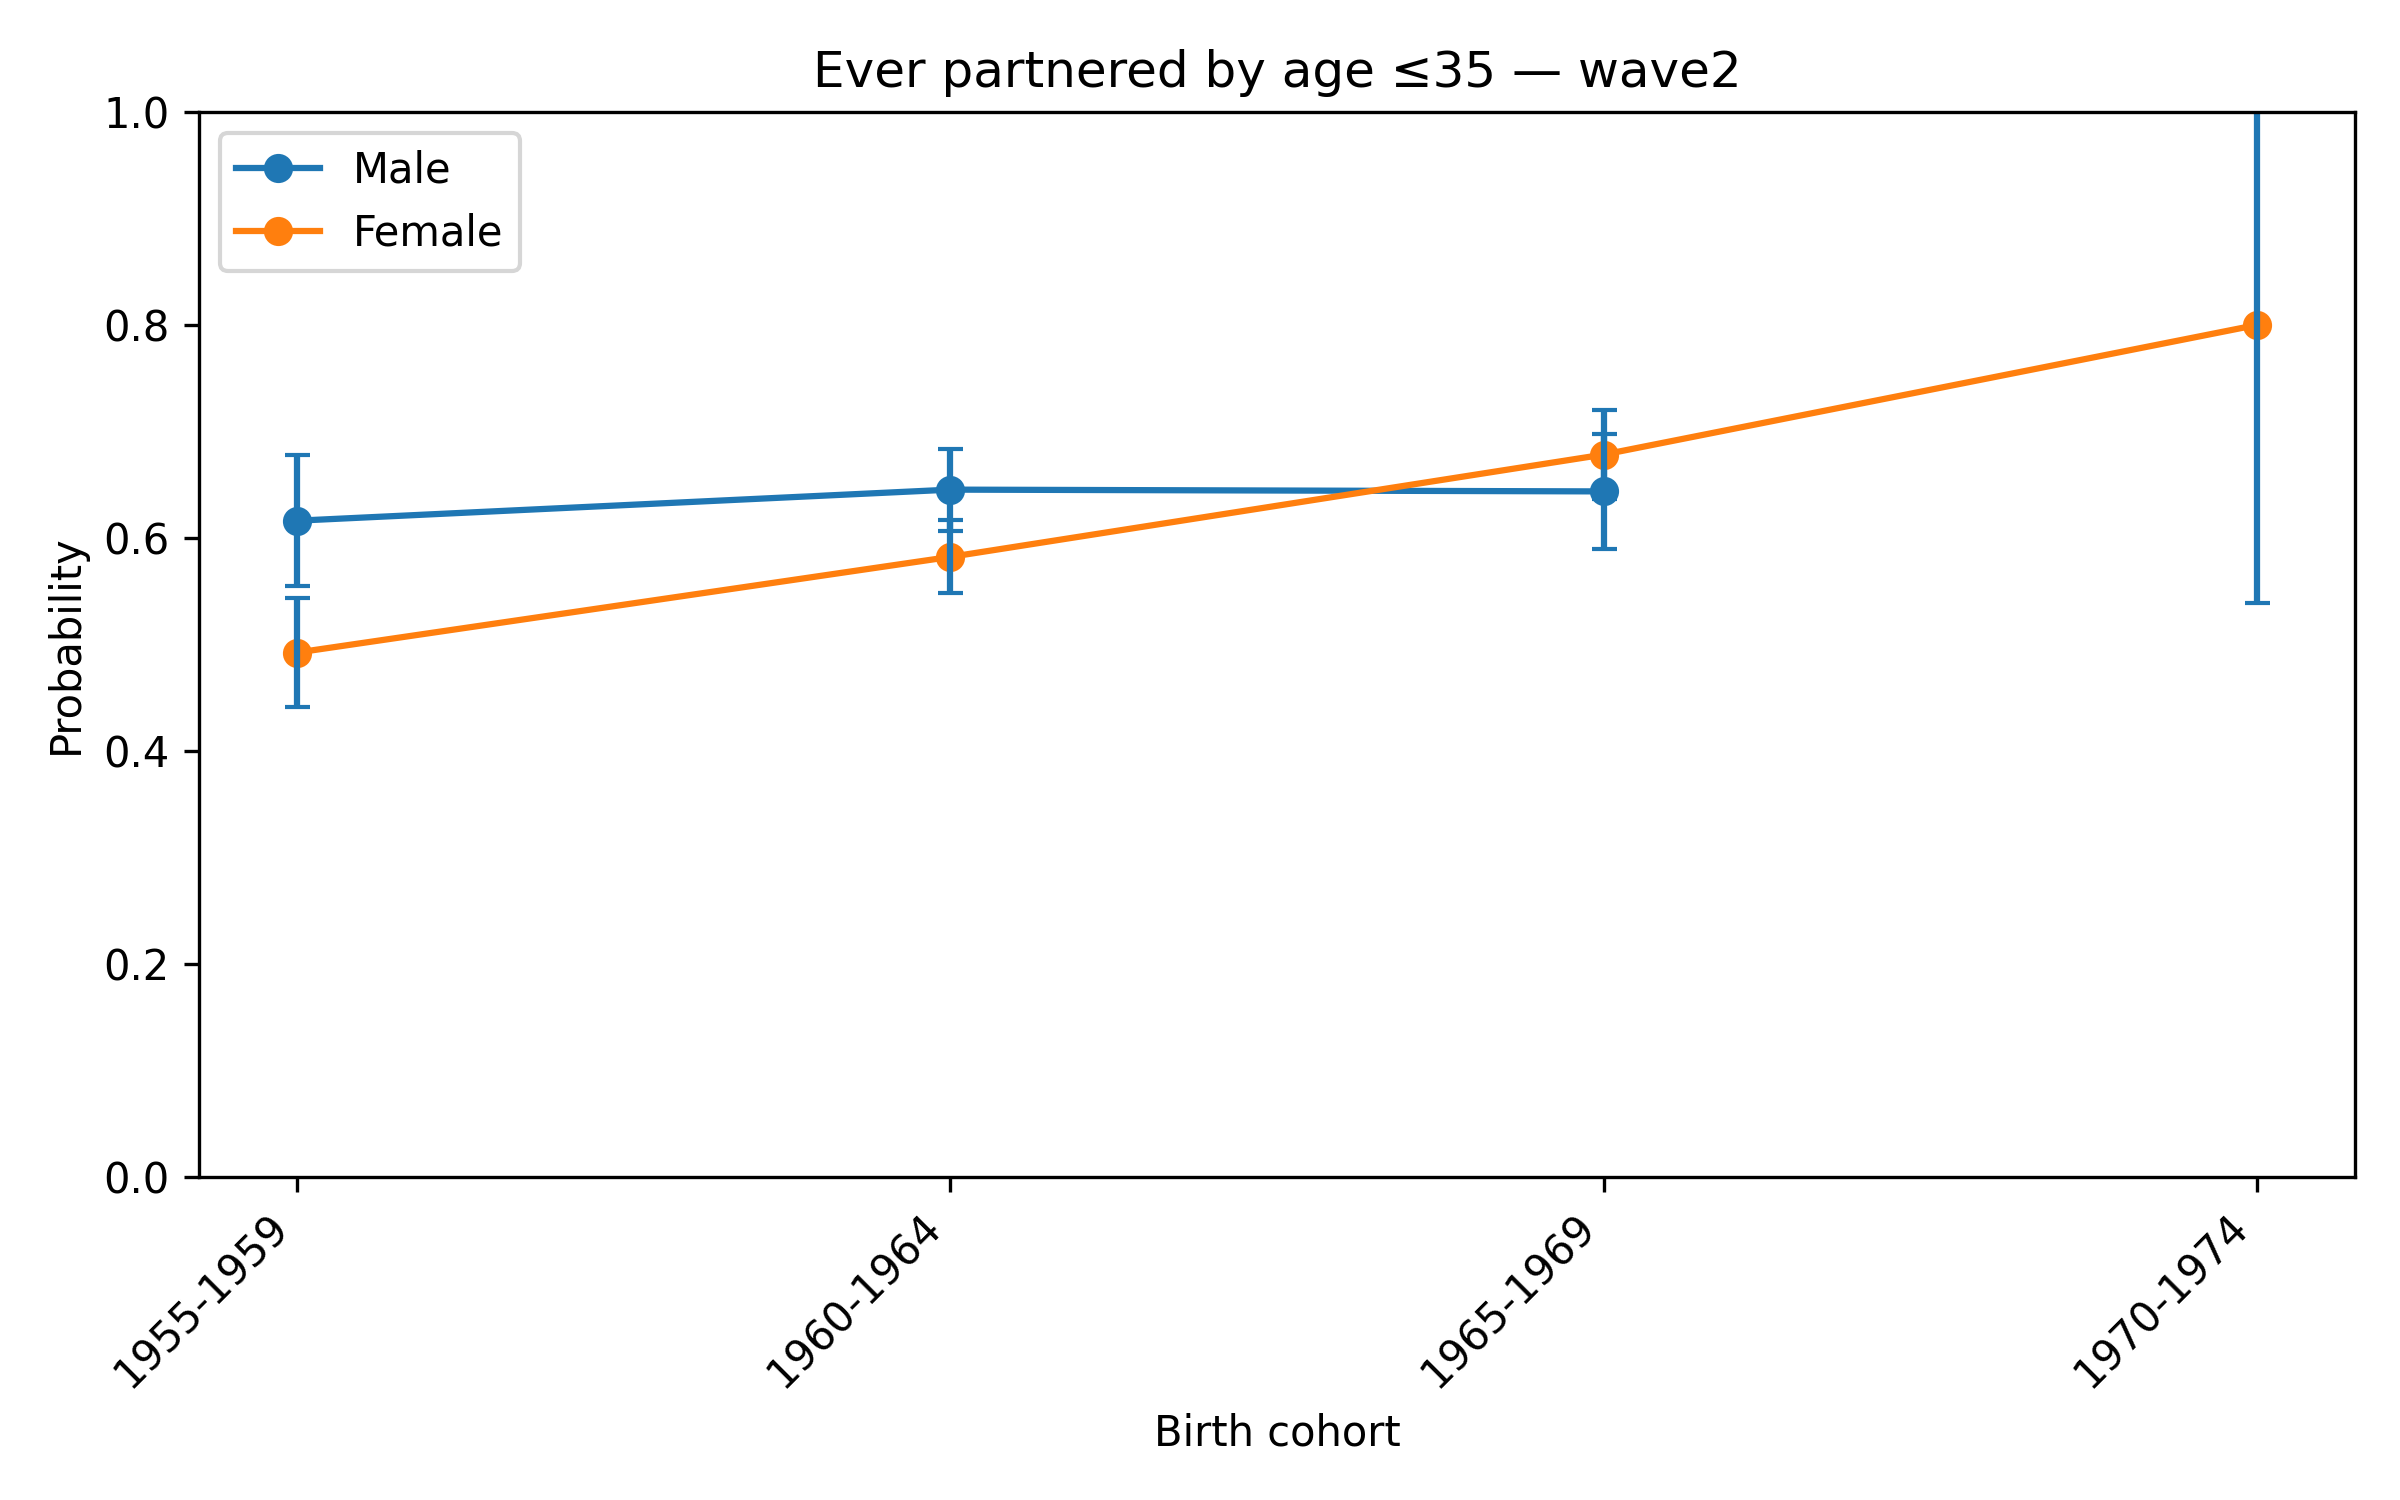
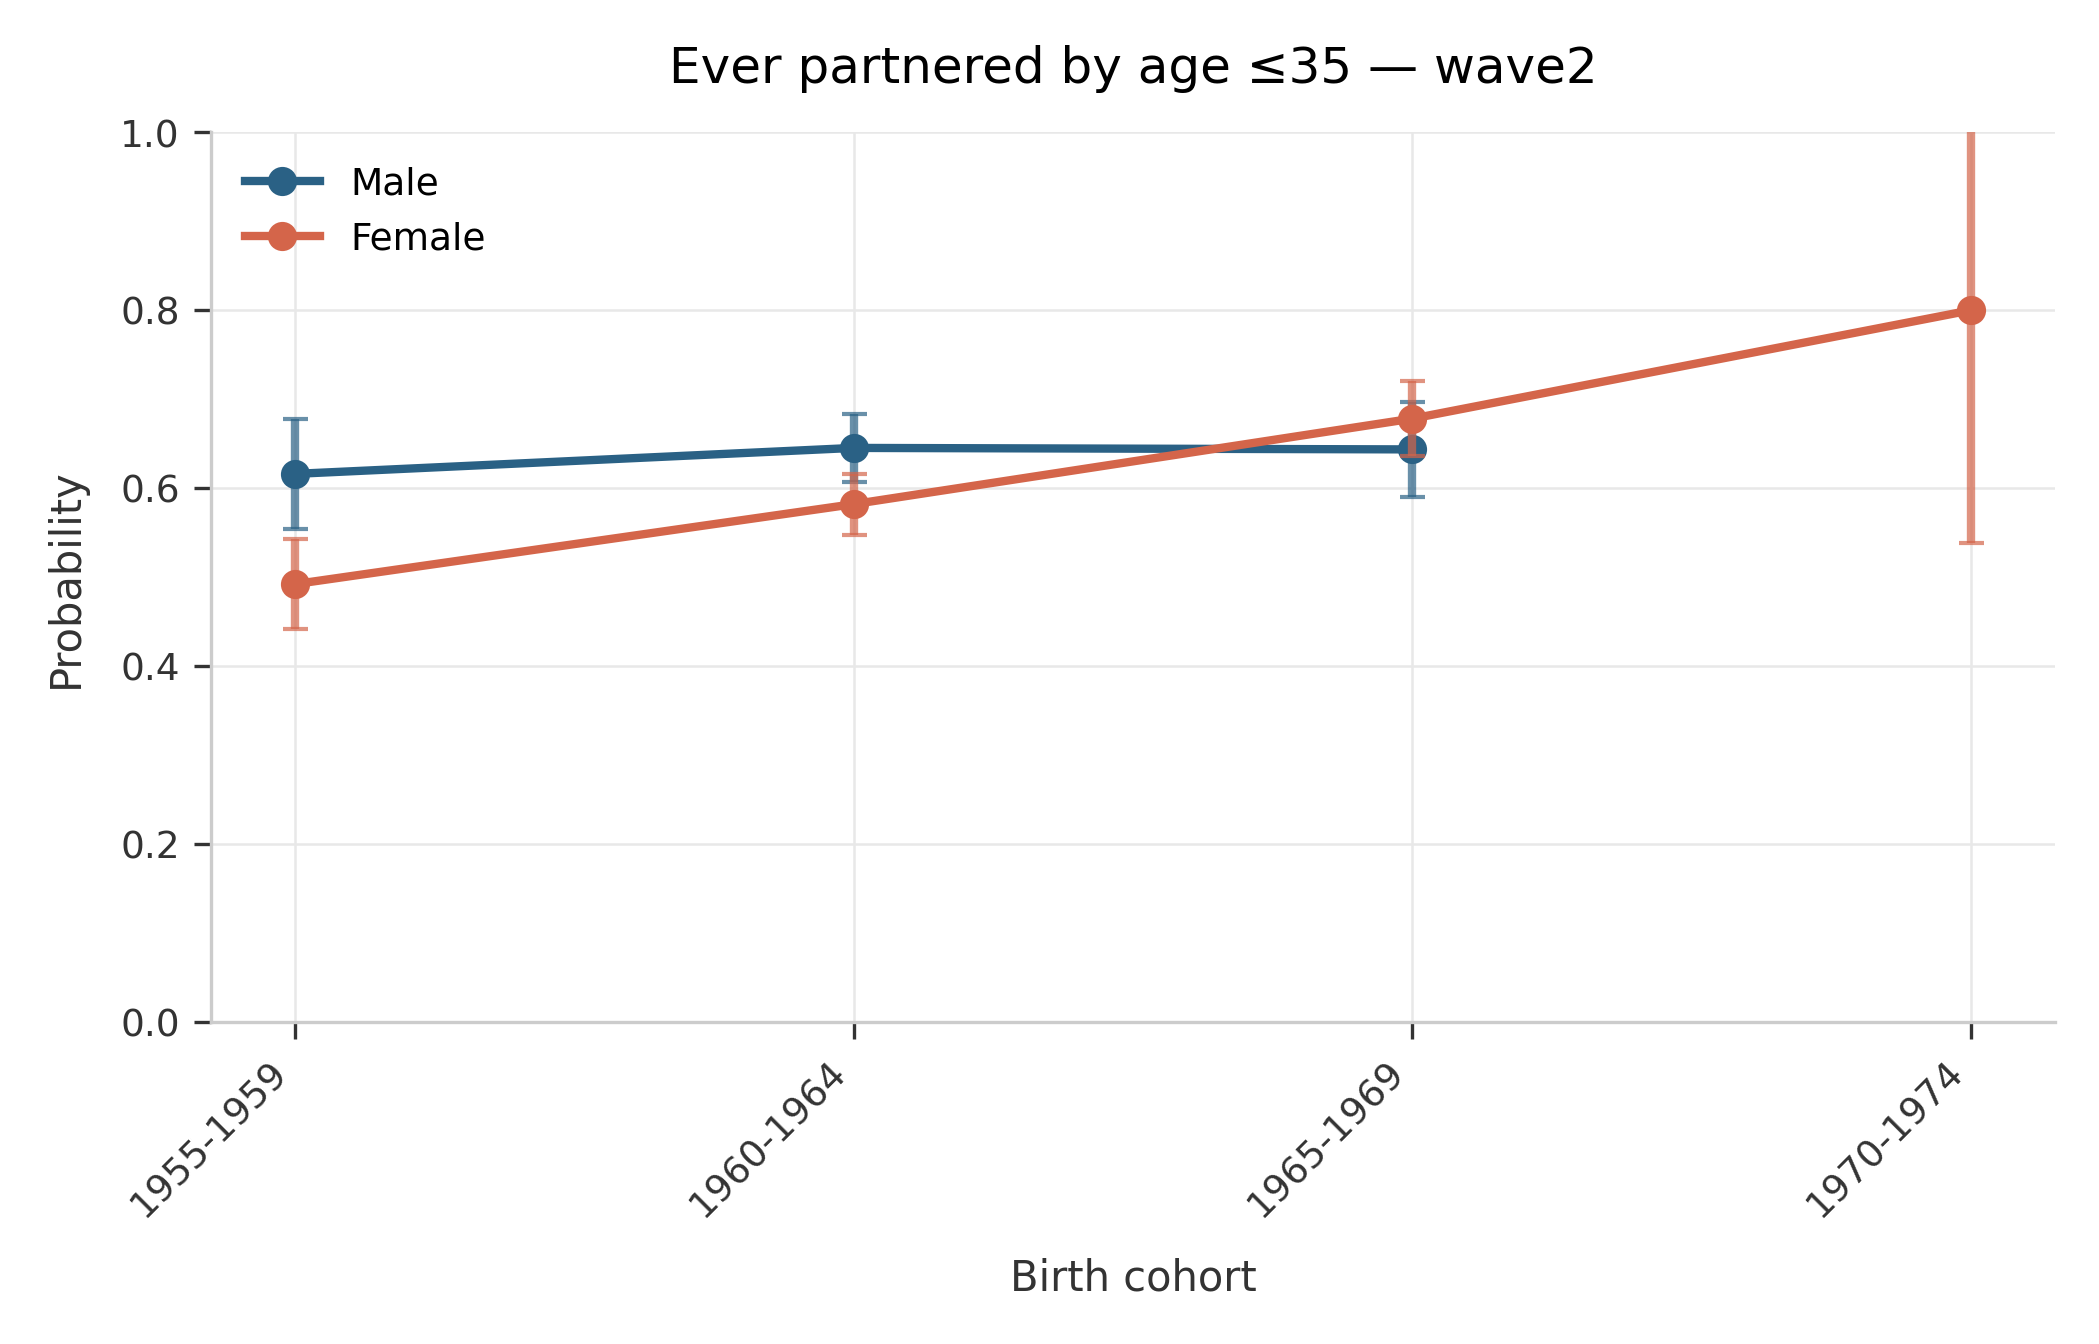
Update figures to FT-style with clean journal colors
- Add FT-inspired matplotlib configuration with muted, professional colors
- Use teal-blue (#2A6185) for male, coral (#D4654A) for female
- Remove top/right spines for cleaner look
- Add subtle gridlines and frameless legends
- Use sans-serif typography throughout
- Regenerate all 8 figures with new styling

diff --git a/scripts/nsfh_plots.py b/scripts/nsfh_plots.py
@@ -9,11 +9,93 @@
 #  - P(remarried 2+ | partnered)
 #
 # Designed for GitHub inclusion (no notebook state, deterministic outputs)
+# Style: FT-inspired with clean, journal-appropriate colors
 
 import pandas as pd
 import numpy as np
 import matplotlib.pyplot as plt
+import matplotlib as mpl
 from pathlib import Path
+
+# =============================================================================
+# FT-STYLE CONFIGURATION (Journal-appropriate colors)
+# =============================================================================
+
+# Color palette - muted, professional, colorblind-friendly
+COLORS = {
+    'male': '#2A6185',       # Deep teal-blue
+    'female': '#D4654A',     # Muted coral/terracotta
+    'single': '#3D5A6C',     # Slate blue-gray for single-series plots
+    'reference': '#9EAEB8',  # Light gray for reference lines
+    'grid': '#E8E8E8',       # Very light gray for gridlines
+    'text': '#333333',       # Dark gray for text (not pure black)
+    'spine': '#CCCCCC',      # Light gray for axis spines
+}
+
+# Figure styling
+FIG_WIDTH = 7
+FIG_HEIGHT = 4.5
+DPI = 300
+
+def setup_ft_style():
+    """Configure matplotlib for FT-inspired journal style."""
+    plt.rcParams.update({
+        # Figure
+        'figure.figsize': (FIG_WIDTH, FIG_HEIGHT),
+        'figure.facecolor': 'white',
+        'figure.dpi': 100,
+        'savefig.dpi': DPI,
+        'savefig.facecolor': 'white',
+        'savefig.bbox': 'tight',
+        'savefig.pad_inches': 0.15,
+
+        # Font - clean sans-serif
+        'font.family': 'sans-serif',
+        'font.sans-serif': ['Helvetica Neue', 'Helvetica', 'Arial', 'DejaVu Sans'],
+        'font.size': 10,
+
+        # Axes
+        'axes.facecolor': 'white',
+        'axes.edgecolor': COLORS['spine'],
+        'axes.linewidth': 0.8,
+        'axes.grid': True,
+        'axes.axisbelow': True,
+        'axes.titlesize': 12,
+        'axes.titleweight': 'medium',
+        'axes.titlepad': 12,
+        'axes.labelsize': 10,
+        'axes.labelcolor': COLORS['text'],
+        'axes.labelpad': 8,
+        'axes.spines.top': False,
+        'axes.spines.right': False,
+
+        # Grid
+        'grid.color': COLORS['grid'],
+        'grid.linewidth': 0.6,
+        'grid.alpha': 1.0,
+
+        # Ticks
+        'xtick.color': COLORS['text'],
+        'ytick.color': COLORS['text'],
+        'xtick.labelsize': 9,
+        'ytick.labelsize': 9,
+        'xtick.major.width': 0.8,
+        'ytick.major.width': 0.8,
+        'xtick.major.size': 4,
+        'ytick.major.size': 4,
+
+        # Legend
+        'legend.frameon': False,
+        'legend.fontsize': 9,
+        'legend.loc': 'best',
+
+        # Lines
+        'lines.linewidth': 2.0,
+        'lines.markersize': 6,
+    })
+
+# Apply style on import
+setup_ft_style()
 
 SCRIPT_DIR = Path(__file__).parent.resolve()
 PROJECT_ROOT = SCRIPT_DIR.parent
@@ -43,24 +125,28 @@ def plot_ever_partnered_by_wave():
         cohorts = sorted(d["cohort_primary"].dropna().unique(), key=cohort_sort_key)
         d["cohort_primary"] = pd.Categorical(d["cohort_primary"], categories=cohorts, ordered=True)
 
-        plt.figure(figsize=(8,5))
+        fig, ax = plt.subplots()
+        sex_colors = {'Male': COLORS['male'], 'Female': COLORS['female']}
+
         for sex in ["Male", "Female"]:
             s = d[d["sex_label"] == sex].sort_values("cohort_primary")
             p = s["p_ever_partnered"]
             n = s["N_age_le_35"]
             lo, hi = add_ci(p, n)
+            color = sex_colors[sex]
 
-            plt.plot(s["cohort_primary"], p, marker="o", label=sex)
-            plt.errorbar(s["cohort_primary"], p, yerr=[p-lo, hi-p], fmt="none", capsize=3)
+            ax.plot(s["cohort_primary"], p, marker="o", label=sex, color=color)
+            ax.errorbar(s["cohort_primary"], p, yerr=[p-lo, hi-p],
+                        fmt="none", capsize=3, color=color, alpha=0.7)
 
-        plt.title(f"Ever partnered by age ≤35 — {wave}")
-        plt.ylabel("Probability")
-        plt.xlabel("Birth cohort")
-        plt.ylim(0,1)
+        ax.set_title(f"Ever partnered by age ≤35 — {wave}")
+        ax.set_ylabel("Probability")
+        ax.set_xlabel("Birth cohort")
+        ax.set_ylim(0, 1)
         plt.xticks(rotation=45, ha="right")
-        plt.legend()
+        ax.legend()
         plt.tight_layout()
-        plt.savefig(OUTDIR / f"ever_partnered_{wave}.png", dpi=300)
+        plt.savefig(OUTDIR / f"ever_partnered_{wave}.png")
         plt.close()
 
 def plot_gap_by_wave():
@@ -88,54 +174,57 @@ def plot_gap_by_wave():
         d["cohort_primary"] = pd.Categorical(d["cohort_primary"], categories=cohorts, ordered=True)
         d = d.sort_values("cohort_primary")
 
-        plt.figure(figsize=(8,5))
-        plt.plot(d["cohort_primary"], d["gap"], marker="o")
-        plt.errorbar(d["cohort_primary"], d["gap"],
-                     yerr=[d["gap"]-d["lo"], d["hi"]-d["gap"]],
-                     fmt="none", capsize=3)
-        plt.axhline(0, linewidth=1)
-        plt.title(f"Female − Male gap in ever partnered — {wave}")
-        plt.ylabel("Gap")
-        plt.xlabel("Birth cohort")
+        fig, ax = plt.subplots()
+        ax.plot(d["cohort_primary"], d["gap"], marker="o", color=COLORS['single'])
+        ax.errorbar(d["cohort_primary"], d["gap"],
+                    yerr=[d["gap"]-d["lo"], d["hi"]-d["gap"]],
+                    fmt="none", capsize=3, color=COLORS['single'], alpha=0.7)
+        ax.axhline(0, linewidth=1, color=COLORS['reference'], linestyle='--')
+        ax.set_title(f"Female − Male gap in ever partnered — {wave}")
+        ax.set_ylabel("Gap")
+        ax.set_xlabel("Birth cohort")
         plt.xticks(rotation=45, ha="right")
         plt.tight_layout()
-        plt.savefig(OUTDIR / f"gap_ever_partnered_{wave}.png", dpi=300)
+        plt.savefig(OUTDIR / f"gap_ever_partnered_{wave}.png")
         plt.close()
 
 def plot_marriages_and_remarriage():
     df = pd.read_excel(TABLES_XLSX, sheet_name="stacked_primary_all_by_wave")
+    sex_colors = {'Male': COLORS['male'], 'Female': COLORS['female']}
 
     for wave, d in df.groupby("wave"):
         cohorts = sorted(d["cohort_primary"].dropna().unique(), key=cohort_sort_key)
         d["cohort_primary"] = pd.Categorical(d["cohort_primary"], categories=cohorts, ordered=True)
 
         # Mean marriages
-        plt.figure(figsize=(8,5))
-        for sex in ["Male","Female"]:
+        fig, ax = plt.subplots()
+        for sex in ["Male", "Female"]:
             s = d[d["sex_label"]==sex].sort_values("cohort_primary")
-            plt.plot(s["cohort_primary"], s["mean_marriages_if_partnered"], marker="o", label=sex)
-        plt.title(f"Mean marriages | ever partnered — {wave}")
-        plt.ylabel("Mean marriages")
-        plt.xlabel("Birth cohort")
+            ax.plot(s["cohort_primary"], s["mean_marriages_if_partnered"],
+                    marker="o", label=sex, color=sex_colors[sex])
+        ax.set_title(f"Mean marriages | ever partnered — {wave}")
+        ax.set_ylabel("Mean marriages")
+        ax.set_xlabel("Birth cohort")
         plt.xticks(rotation=45, ha="right")
-        plt.legend()
+        ax.legend()
         plt.tight_layout()
-        plt.savefig(OUTDIR / f"mean_marriages_{wave}.png", dpi=300)
+        plt.savefig(OUTDIR / f"mean_marriages_{wave}.png")
         plt.close()
 
         # Remarriage probability
-        plt.figure(figsize=(8,5))
-        for sex in ["Male","Female"]:
+        fig, ax = plt.subplots()
+        for sex in ["Male", "Female"]:
             s = d[d["sex_label"]==sex].sort_values("cohort_primary")
-            plt.plot(s["cohort_primary"], s["p_remarried_2plus_if_partnered"], marker="o", label=sex)
-        plt.title(f"P(remarried 2+ | partnered) — {wave}")
-        plt.ylabel("Probability")
-        plt.xlabel("Birth cohort")
-        plt.ylim(0,1)
+            ax.plot(s["cohort_primary"], s["p_remarried_2plus_if_partnered"],
+                    marker="o", label=sex, color=sex_colors[sex])
+        ax.set_title(f"P(remarried 2+ | partnered) — {wave}")
+        ax.set_ylabel("Probability")
+        ax.set_xlabel("Birth cohort")
+        ax.set_ylim(0, 1)
         plt.xticks(rotation=45, ha="right")
-        plt.legend()
+        ax.legend()
         plt.tight_layout()
-        plt.savefig(OUTDIR / f"p_remarried2plus_{wave}.png", dpi=300)
+        plt.savefig(OUTDIR / f"p_remarried2plus_{wave}.png")
         plt.close()
 
 if __name__ == "__main__":
